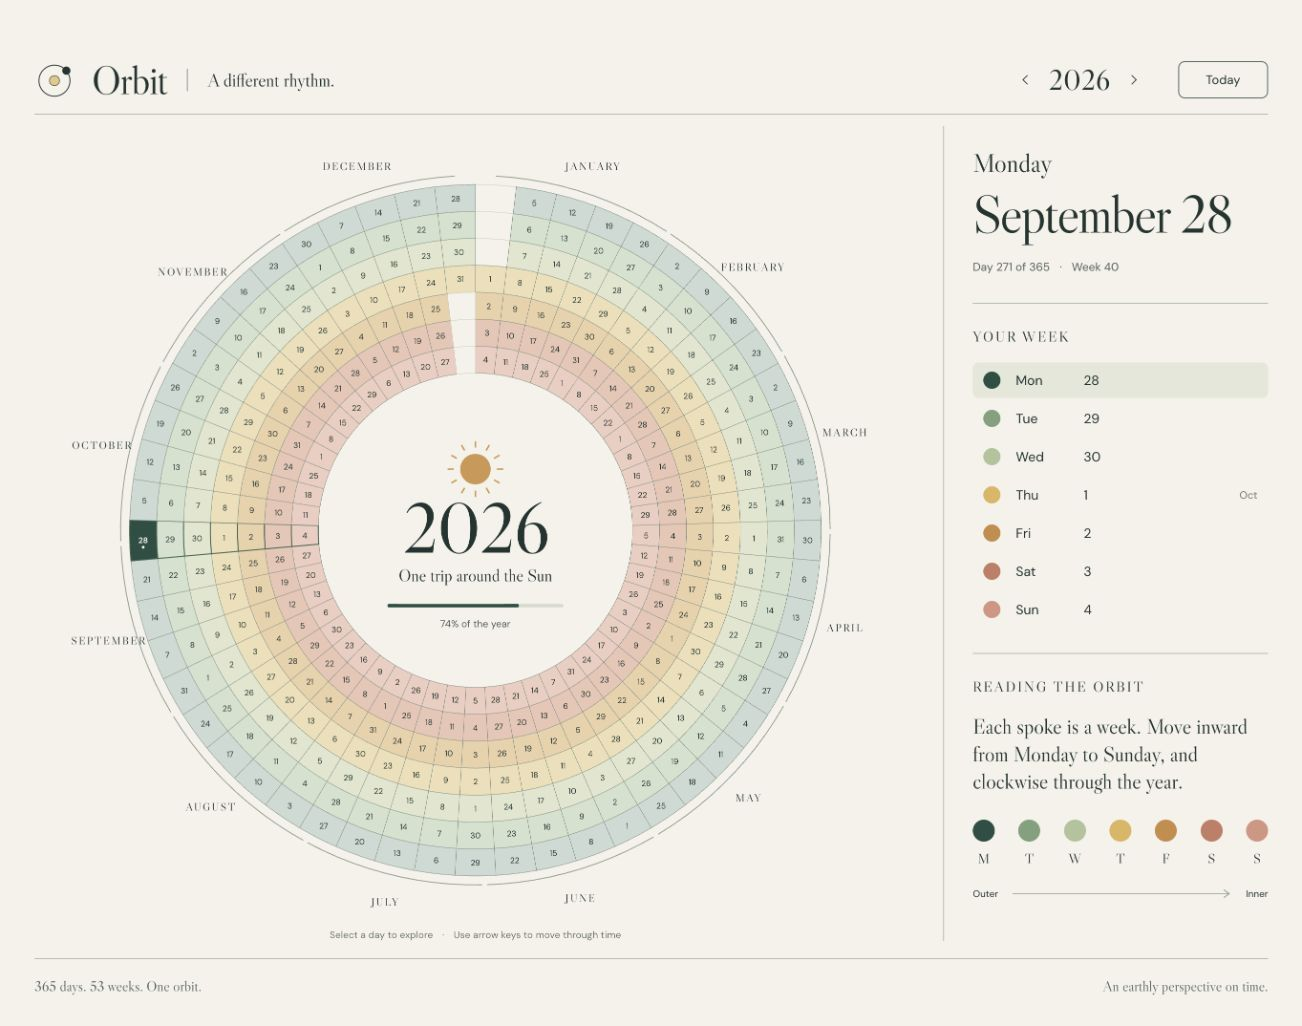
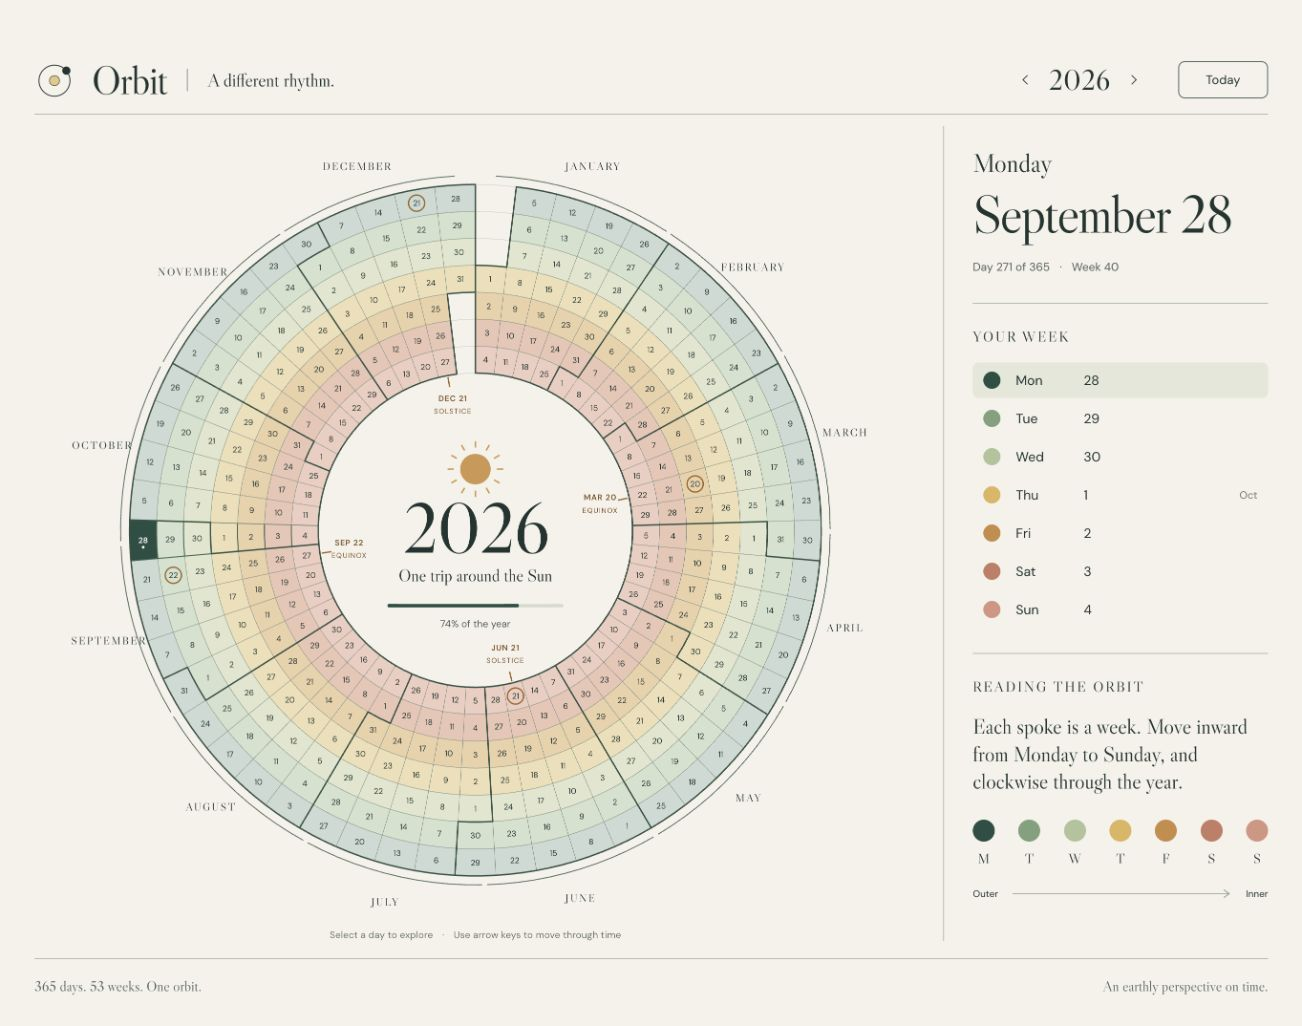
Outline months and mark equinoxes and solstices

diff --git a/src/components/OrbitCalendar.jsx b/src/components/OrbitCalendar.jsx
@@ -6,7 +6,37 @@ const INNER = 175;
 const TRACK = 30;
 const TAU = Math.PI * 2;
 
-export default function OrbitCalendar({ calendar, selected, today, onSelect }) {
+function monthOutline(weeks, month, step) {
+  const belongsToMonth = cell => cell?.inYear && cell.date.getUTCMonth() === month;
+  const edges = [];
+
+  for (const cell of weeks.flat()) {
+    if (!belongsToMonth(cell)) continue;
+    const { week, track } = cell;
+    const inner = INNER + (6 - track) * TRACK;
+    const outer = inner + TRACK;
+    const start = week * step;
+    const end = start + step;
+
+    // Only draw exposed edges, so a month has one stepped outline across its tracks.
+    if (!belongsToMonth(weeks[week][track - 1])) {
+      edges.push(`M ${point(outer, start)} A ${outer} ${outer} 0 0 1 ${point(outer, end)}`);
+    }
+    if (!belongsToMonth(weeks[week][track + 1])) {
+      edges.push(`M ${point(inner, start)} A ${inner} ${inner} 0 0 1 ${point(inner, end)}`);
+    }
+    if (!belongsToMonth(weeks[week - 1]?.[track])) {
+      edges.push(`M ${point(inner, start)} L ${point(outer, start)}`);
+    }
+    if (!belongsToMonth(weeks[week + 1]?.[track])) {
+      edges.push(`M ${point(inner, end)} L ${point(outer, end)}`);
+    }
+  }
+
+  return edges.join(' ');
+}
+
+export default function OrbitCalendar({ calendar, seasons, selected, today, onSelect }) {
   const cellRefs = useRef(new Map());
   const [zoomed, setZoomed] = useState(false);
   const selectedKey = dateKey(selected);
@@ -36,6 +66,7 @@ export default function OrbitCalendar({ calendar, selected, today, onSelect }) {
         const [x, y] = point(INNER + TRACK * (radialTrack + .5), start + step / 2);
         const isSelected = key === selectedKey;
         const isToday = key === todayKey;
+        const season = seasons.find(event => event.key === key);
         const isWeek = +startOfWeek(date) === selectedWeek;
         return <g key={key}>
           <path
@@ -45,11 +76,12 @@ export default function OrbitCalendar({ calendar, selected, today, onSelect }) {
             className={`day-cell${isSelected ? ' selected' : ''}${isWeek && inYear ? ' active-week' : ''}${!inYear ? ' outside' : ''}`}
             role={inYear ? 'button' : undefined}
             tabIndex={inYear && isSelected ? 0 : -1}
-            aria-label={inYear ? `${formatDate(date, { weekday: 'long', month: 'long', day: 'numeric', year: 'numeric' })}${isToday ? ', today' : ''}` : undefined}
+            aria-label={inYear ? `${formatDate(date, { weekday: 'long', month: 'long', day: 'numeric', year: 'numeric' })}${isToday ? ', today' : ''}${season ? `, ${season.name}` : ''}` : undefined}
             aria-pressed={inYear ? isSelected : undefined}
             onClick={inYear ? () => onSelect(date) : undefined}
             onKeyDown={inYear ? event => { if (event.key === 'Enter' || event.key === ' ') { event.preventDefault(); onSelect(date); } else navigate(event, date); } : undefined}
-          ><title>{formatDate(date, { weekday: 'long', month: 'long', day: 'numeric', year: 'numeric' })}</title></path>
+          ><title>{formatDate(date, { weekday: 'long', month: 'long', day: 'numeric', year: 'numeric' })}{season ? ` · ${season.name} · ${season.timeLabel}` : ''}</title></path>
+          {season && inYear && <circle cx={x} cy={y} r="9" className={`season-date-circle${isSelected ? ' is-selected' : ''}`} aria-hidden="true" />}
           {inYear && <text x={x} y={y} dy=".35em" className={`day-number${isSelected ? ' selected-number' : ''}`} aria-hidden="true">{date.getUTCDate()}</text>}
           {isToday && inYear && <circle cx={x} cy={y + 8} r="1.5" fill={isSelected ? '#fff' : '#35594d'} pointerEvents="none" />}
         </g>;
@@ -61,8 +93,27 @@ export default function OrbitCalendar({ calendar, selected, today, onSelect }) {
         const b = (last.week + (last.track + 1) / 7) * step;
         const [x, y] = point(426, (a + b) / 2);
         return <g key={month} className="month-marker" aria-hidden="true">
-          <path d={`M ${point(395, a + .007)} A 395 395 0 0 1 ${point(395, b - .007)}`} fill="none" stroke="#9ca69a" strokeWidth="1" />
+          <path className="month-outline" d={monthOutline(calendar.weeks, month, step)} />
+          <path d={`M ${point(395, a + .007)} A 395 395 0 0 1 ${point(395, b - .007)}`} fill="none" stroke="#607468" strokeWidth="1" />
           <text x={x} y={y} dy=".35em">{formatDate(first.date, { month: 'long' }).toUpperCase()}</text>
+        </g>;
+      })}
+      {seasons.map(season => {
+        const cell = calendar.weeks.flat().find(day => day.key === season.key);
+        if (!cell) return null;
+        const angle = (cell.week + .5) * step;
+        const [x, y] = point(142, angle);
+        const [tickX, tickY] = point(162, angle);
+        const [edgeX, edgeY] = point(173, angle);
+        return <g key={season.id} className="season-marker" role="button" tabIndex={0}
+          aria-label={`${season.name}, ${formatDate(season.date, { month: 'long', day: 'numeric' })}, ${season.timeLabel}`}
+          onClick={() => onSelect(season.date)}
+          onKeyDown={event => { if (event.key === 'Enter' || event.key === ' ') { event.preventDefault(); onSelect(season.date); } }}>
+          <title>{season.name} · {season.timeLabel} · {season.timeZone}</title>
+          <circle className="season-hit-area" cx={x} cy={y} r="28" />
+          <line x1={tickX} y1={tickY} x2={edgeX} y2={edgeY} />
+          <text x={x} y={y - 4} className="season-date">{formatDate(season.date, { month: 'short', day: 'numeric' }).toUpperCase()}</text>
+          <text x={x} y={y + 10} className="season-kind">{season.kind.toUpperCase()}</text>
         </g>;
       })}
       <Sun />

diff --git a/src/styles.css b/src/styles.css
@@ -34,8 +34,20 @@ main { display: grid; grid-template-columns: minmax(0, 1fr) 340px; gap: 28px; pa
 .day-cell.active-week { stroke: #526e5c; stroke-width: 1.1; }
 .day-cell:focus-visible { outline: none; stroke: #1b3027; stroke-width: 2.5; }
 .day-cell.outside { stroke: #cbd0c4; }
+.season-date-circle { fill: none; stroke: #a27330; stroke-width: 1.5; pointer-events: none; }
+.season-date-circle.is-selected { stroke: #efd39a; }
+.season-marker { cursor: pointer; outline: none; }
+.season-marker line { stroke: #a27330; stroke-width: 1.5; pointer-events: none; }
+.season-marker text { fill: #86602d; text-anchor: middle; pointer-events: none; font-family: 'DM Sans', sans-serif; }
+.season-date { font-size: 9px; font-weight: 600; letter-spacing: .6px; }
+.season-kind { font-size: 8px; letter-spacing: .8px; }
+.season-hit-area { fill: transparent; stroke: transparent; }
+.season-marker:hover .season-hit-area, .season-marker:focus-visible .season-hit-area { fill: #d7bf8720; stroke: #a27330; stroke-width: .8; }
+.season-detail { color: #86602d; font-size: 12px; line-height: 1.5; margin: 12px 0 0; }
+.season-detail span { white-space: nowrap; }
 .day-number { font: 9px 'DM Sans', sans-serif; text-anchor: middle; pointer-events: none; fill: #293b36; font-variant-numeric: tabular-nums; }
 .selected-number { fill: #fff; font-weight: 600; }
+.month-outline { fill: none; stroke: #435c4f; stroke-width: 1.6; stroke-linecap: round; stroke-linejoin: round; pointer-events: none; }
 .month-marker text { font-family: var(--serif); font-size: 12px; letter-spacing: 1.7px; text-anchor: middle; fill: #293b36; }
 .center-year { font-family: var(--serif); font-size: 79px; letter-spacing: -2px; text-anchor: middle; fill: #293b36; }
 .center-caption { font-family: var(--serif); font-size: 19px; font-style: italic; text-anchor: middle; fill: #293b36; }

diff --git a/src/App.jsx b/src/App.jsx
@@ -1,5 +1,6 @@
 import { useMemo, useState } from 'react';
 import { calendarYear, changeYear, localToday } from './calendar.js';
+import { seasonEvents } from './seasons.js';
 import OrbitCalendar from './components/OrbitCalendar.jsx';
 import DateDetail from './components/DateDetail.jsx';
 import { Chevron, OrbitMark } from './components/Icons.jsx';
@@ -9,6 +10,7 @@ export default function App() {
   const [selected, setSelected] = useState(today);
   const year = selected.getUTCFullYear();
   const calendar = useMemo(() => calendarYear(year), [year]);
+  const seasons = useMemo(() => seasonEvents(year), [year]);
   return <div className="app-shell">
     <header className="app-header">
       <div className="brand"><OrbitMark /><span className="brand-name">Orbit</span><span className="tagline">A different rhythm.</span></div>
@@ -19,7 +21,7 @@ export default function App() {
         <button className="today-button" onClick={() => setSelected(localToday())}>Today</button>
       </nav>
     </header>
-    <main><OrbitCalendar calendar={calendar} selected={selected} today={today} onSelect={setSelected} /><DateDetail selected={selected} onSelect={setSelected} /></main>
+    <main><OrbitCalendar calendar={calendar} seasons={seasons} selected={selected} today={today} onSelect={setSelected} /><DateDetail selected={selected} seasons={seasons} onSelect={setSelected} /></main>
     <footer><span>{calendar.dayCount} days. {calendar.weekCount} weeks. One orbit.</span><span>An earthly perspective on time.</span></footer>
   </div>;
 }

diff --git a/tests/seasons.test.js b/tests/seasons.test.js
@@ -1,0 +1,25 @@
+import { test } from 'node:test';
+import assert from 'node:assert/strict';
+import { seasonEvents } from '../src/seasons.js';
+
+test('2026 events agree with US Naval Observatory UTC times within two minutes', () => {
+  // https://aa.usno.navy.mil/data/Earth_Seasons
+  const reference = ['2026-03-20T14:46:00Z', '2026-06-21T08:24:00Z', '2026-09-23T00:05:00Z', '2026-12-21T20:50:00Z'];
+  const events = seasonEvents(2026, 'UTC');
+  events.forEach((event, index) => assert.ok(Math.abs(event.instant - new Date(reference[index])) < 120_000, event.name));
+});
+
+test('event dates follow the viewer time zone at midnight boundaries', () => {
+  assert.deepEqual(seasonEvents(2026, 'America/New_York').map(event => event.key), ['2026-03-20', '2026-06-21', '2026-09-22', '2026-12-21']);
+  assert.equal(seasonEvents(2024, 'UTC')[0].key, '2024-03-20');
+  assert.equal(seasonEvents(2024, 'America/New_York')[0].key, '2024-03-19');
+});
+
+test('year navigation recalculates all four events including supported endpoints', () => {
+  for (const year of [1900, 2024, 2025, 2026, 2100, 2200]) {
+    const events = seasonEvents(year, 'UTC');
+    assert.equal(events.length, 4);
+    assert.deepEqual(events.map(event => event.date.getUTCMonth()), [2, 5, 8, 11]);
+    for (const event of events) assert.equal(event.date.getUTCFullYear(), year);
+  }
+});

diff --git a/src/seasons.js b/src/seasons.js
@@ -1,0 +1,22 @@
+import { Seasons } from 'astronomy-engine';
+import { civilDate, dateKey } from './calendar.js';
+
+const EVENTS = [
+  ['mar_equinox', 'March equinox', 'Equinox'],
+  ['jun_solstice', 'June solstice', 'Solstice'],
+  ['sep_equinox', 'September equinox', 'Equinox'],
+  ['dec_solstice', 'December solstice', 'Solstice'],
+];
+
+// Astronomy Engine calculates the instants; civil dates follow the viewer's time zone.
+export function seasonEvents(year, timeZone = Intl.DateTimeFormat().resolvedOptions().timeZone) {
+  const seasons = Seasons(year);
+  const dateFormatter = new Intl.DateTimeFormat('en-US', { timeZone, year: 'numeric', month: 'numeric', day: 'numeric' });
+  const timeFormatter = new Intl.DateTimeFormat('en-US', { timeZone, hour: 'numeric', minute: '2-digit', timeZoneName: 'short' });
+  return EVENTS.map(([id, name, kind]) => {
+    const instant = seasons[id].date;
+    const parts = Object.fromEntries(dateFormatter.formatToParts(instant).map(part => [part.type, part.value]));
+    const date = civilDate(Number(parts.year), Number(parts.month) - 1, Number(parts.day));
+    return { id, name, kind, instant, date, key: dateKey(date), timeLabel: `≈ ${timeFormatter.format(instant)}`, timeZone };
+  });
+}

diff --git a/src/components/DateDetail.jsx b/src/components/DateDetail.jsx
@@ -1,13 +1,15 @@
 import { addDays, COLORS, dateKey, dayOfYear, daysInYear, formatDate, isoWeek, startOfWeek, WEEKDAYS, weekday } from '../calendar.js';
 
-export default function DateDetail({ selected, onSelect }) {
+export default function DateDetail({ selected, seasons, onSelect }) {
   const start = startOfWeek(selected);
   const week = Array.from({ length: 7 }, (_, index) => addDays(start, index));
+  const season = seasons.find(event => event.key === dateKey(selected));
   return <aside className="date-detail" aria-label="Selected date">
     <div className="selected-date" aria-live="polite" aria-atomic="true">
       <p className="weekday-title">{WEEKDAYS[weekday(selected)]}</p>
       <h1>{formatDate(selected, { month: 'long', day: 'numeric' })}</h1>
       <p className="date-meta">Day {dayOfYear(selected)} of {daysInYear(selected.getUTCFullYear())} <span>·</span> Week {isoWeek(selected)}</p>
+      {season && <p className="season-detail">{season.name} <span>· {season.timeLabel}</span></p>}
     </div>
     <section className="week-section">
       <h2>Your week</h2>

diff --git a/docs/design.md b/docs/design.md
@@ -7,6 +7,8 @@ Reference: `orbit-concept.png`, generated with the built-in image generation too
 - Warm paper background `#f6f4ed`, forest ink `#293b36`, rules `#bdc4b8`.
 - Display typography: Libre Caslon Display, with Georgia fallback. UI and date numerals: DM Sans, with sans-serif fallback.
 - Seven track colors progress from forest/sage on Monday through straw/ochre to clay on Sunday.
+- Each month's cells have a darker forest outline, following the stepped boundaries where months change partway through a week.
+- Four ochre labels inside the orbit identify March/September equinoxes and June/December solstices, with matching circles around the numbers inside their date cells. Selecting a label shows its approximate local time in the detail rail. Astronomy Engine recalculates instants by year and converts them to the viewer's local civil date. The 2026 instants are checked against [US Naval Observatory data](https://aa.usno.navy.mil/data/Earth_Seasons) within two minutes; time-zone tests cover dates crossing midnight.
 - Open calendar canvas and a right detail rail, separated with a fine rule. No cards or ornamental containers.
 - Header: Orbit, A different rhythm., previous/next year controls, Today.
 - Calendar: month labels, seven tracks, date numerals, small sun, year, One trip around the Sun, selected date's percentage through the year.

diff --git a/README.md b/README.md
@@ -8,6 +8,7 @@ An interactive annual calendar inspired by Earth's orbit around the Sun.
 - Select a date to see its week. Use the year arrows or Today to navigate.
 - Focus the selected date and use left/right arrows to move by a week; up/down arrows move by a day. Home/End move to Monday/Sunday within the displayed year.
 - On small screens, use Enlarge dates to explore a larger, scrollable orbit, or select dates from the week list below.
+- Equinoxes and solstices are marked with ochre circles around their date numbers and labeled inside the orbit. Select a marker to see its approximate local time. Dates are recalculated for each year using [Astronomy Engine](https://github.com/cosinekitty/astronomy), in your browser's time zone; month-based names apply in either hemisphere.
 - Leap years and partial weeks are supported. Adjacent-year dates are blank on the wheel and selectable from the week list.
 
 ## Run
